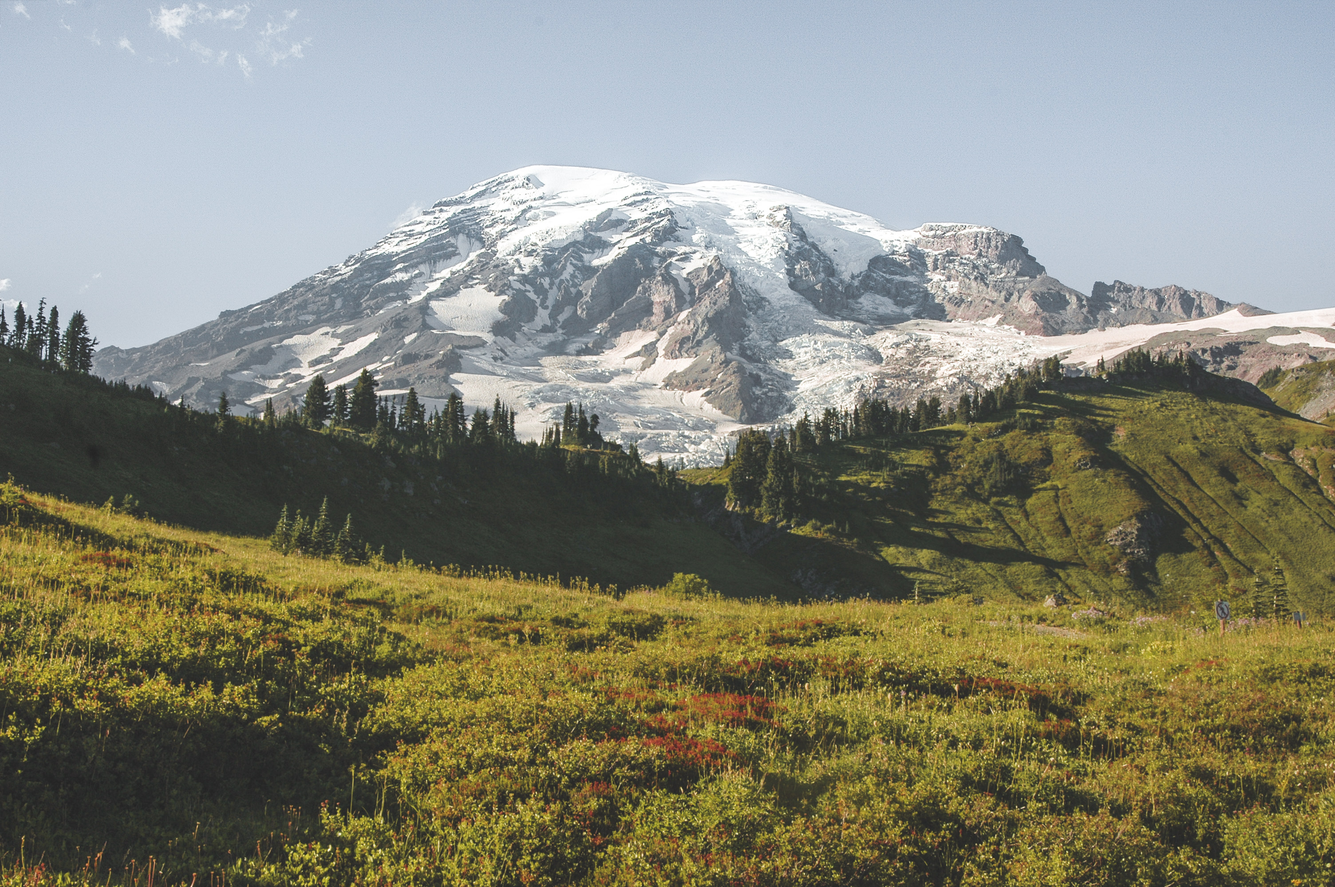
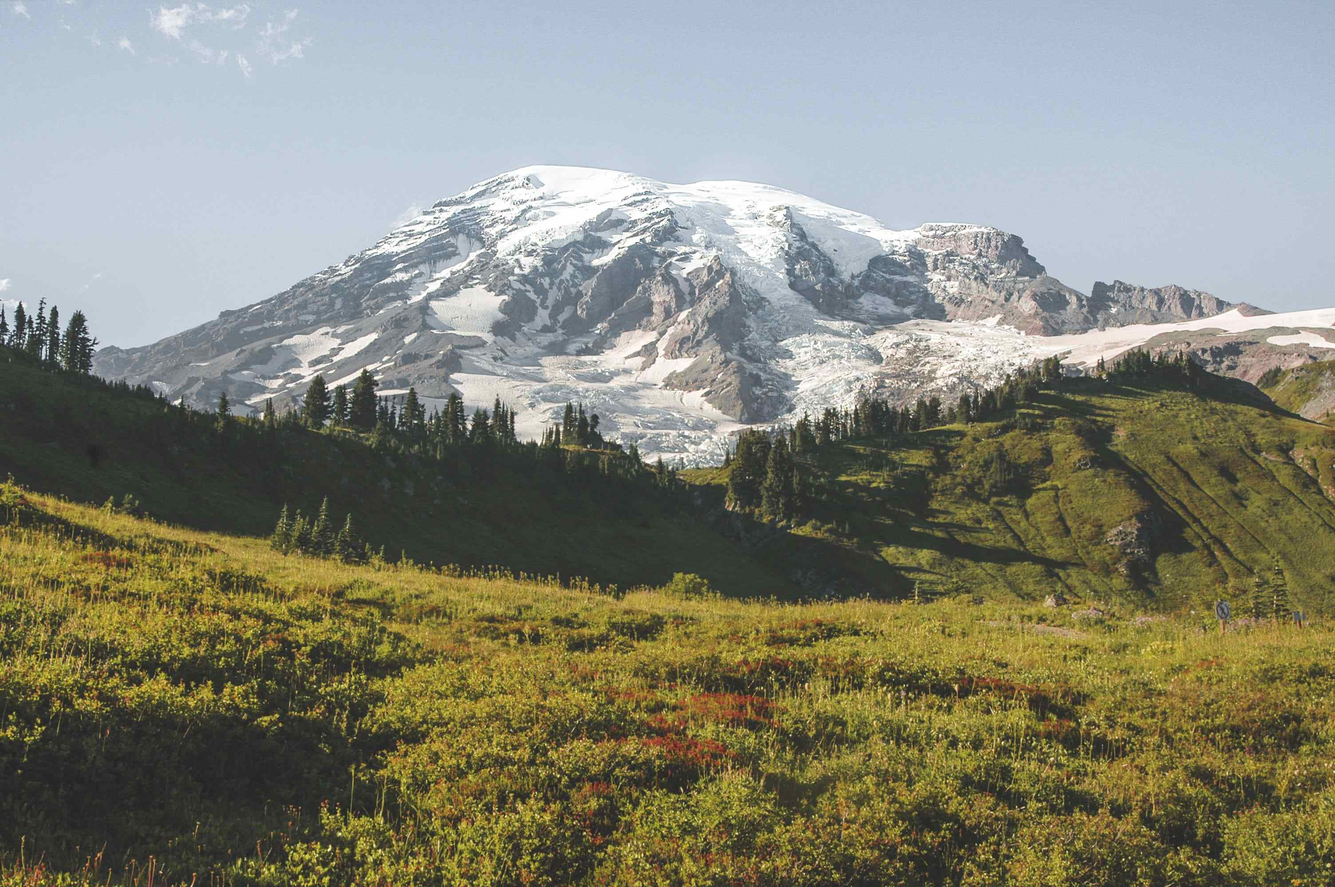
reduce image size and fix profile section height on horizontal mobile display

diff --git a/src/components/about.js b/src/components/about.js
@@ -10,11 +10,13 @@ class About extends Component {
 				</div>			    	
 				<div className="description">
 					<p> 
-							I'm a 3rd year Integrated Sciences student at the University of British Columbia, integrating Computer Science and Geological Science.<br/><br/>
+							I'm currently a 3rd year Integrated Sciences student at the University of British Columbia, studying Computer Science, Mathematics and Geological Science.<br/><br/>
 
-							Here are some facts about me:<br/><br/>
+							Previously, I have worked as a Software Developer Intern at <a href="https://www.sap.com/">SAP</a>.<br/><br/>
 
-							<span class="cat-highlight">Interests:</span> Hackathons, Photography, Sports, Music<br/>
+							Here are some fun facts about me:<br/><br/>
+
+							<span class="cat-highlight">Interests:</span> Hackathons, Photography, Soccer, Hockey, Music<br/>
 							<span class="cat-highlight">Favourite Food:</span> Fried Chicken<br/>
 							<span class="cat-highlight">Favourite Artists:</span> John Mayer, Kendrick Lamar<br/>
 							<span class="cat-highlight">Favourite Sports Teams:</span> San Francisco Giants, Montreal Canadiens, Manchester United<br/>

diff --git a/src/css/Profile.css b/src/css/Profile.css
@@ -1,8 +1,3 @@
-.homepage
-{
-  height: 100vh;
-}
-
 .profile
 {
   display: flex;
@@ -16,7 +11,7 @@
 
 .profile-photo
 {
-  margin-top: 90px;
+  margin-top: 87px;
 }
 
 .profile-photo img
@@ -28,7 +23,7 @@
 .profile-title h1
 {
   text-align: center;
-  margin-top: 30px;
+  margin-top: 20px;
   width: 100%;
   font-family: "Courier New", Courier, monospace;
   color:rgb(255, 255, 255);
@@ -110,11 +105,19 @@ body {
   transition: 0.5s all ease;
 }
 
+@media only screen and (min-height: 600px)
+{
+  .homepage
+  {
+    height: 100vh;
+  }
+}
+
 @media only screen and (max-width: 400px)
 {
-  .profile
+  .profile-photo
   {
-    height: 50vh;
+    margin-top: 10vh;
   }
 
   .profile-photo img
@@ -126,6 +129,7 @@ body {
   {
     margin-top: 10px;
     font-size: 7vw;
+    margin-bottom: 8vh;
   }
 
   .home-nav-menu li a
@@ -141,6 +145,6 @@ body {
 
   .nav-media
   {
-    margin-top: 17vh;
+    margin-top: 23vh;
   }
 }

diff --git a/src/css/About.css b/src/css/About.css
@@ -14,7 +14,7 @@
   padding-top: 130px;
   padding-bottom: 130px;
   align-items: center;
-  background: linear-gradient(rgba(0,0,0,0.5), rgba(0,0,0,0.5)), url('../images/about1.JPG') no-repeat;
+  background: linear-gradient(rgba(0,0,0,0.5), rgba(0,0,0,0.5)), url('../images/about1.jpg') no-repeat;
   background-size: cover;
   background-position: center;
 }
@@ -42,6 +42,20 @@
   font-size: 21px;
   text-align: justify;
   line-height: 1.4em;
+}
+
+.description a
+{
+  color: white;
+  font-weight: bold;
+  font-style: italic;
+  font-family: "Courier New", Courier, monospace;
+  transition: 0.5s all ease;
+}
+
+.description a:hover
+{
+  color: rgb(85, 85, 85);
 }
 
 .cat-highlight

diff --git a/src/components/photos.js b/src/components/photos.js
@@ -56,7 +56,7 @@ class Photos extends Component {
 					</div>  	  		  
 				</div>
 				<div className="photos-link">
-					photo section coming soon...
+					photo section in progress...
 				</div>
 			</div>
 		);
